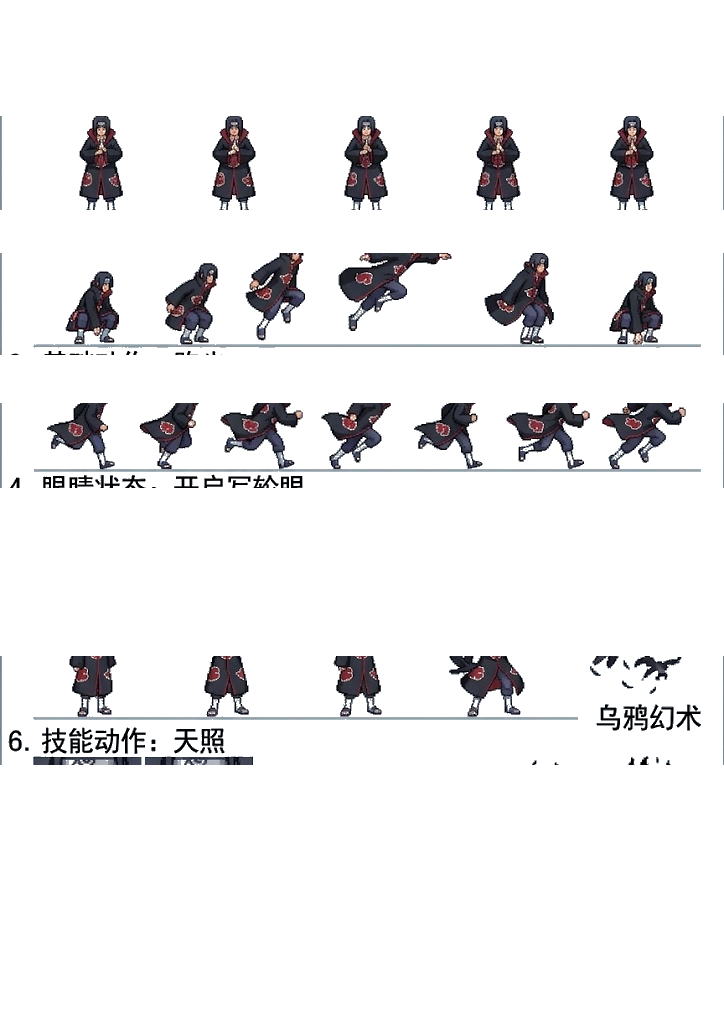
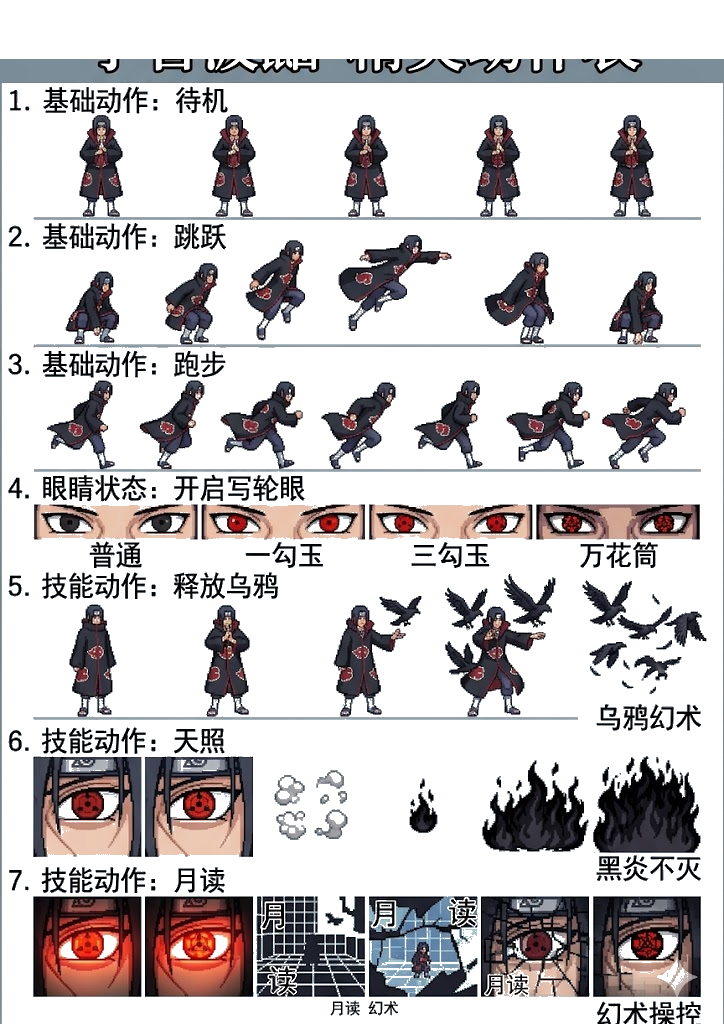
fix(itachi): 恢复被误抠的头 + 收窄每帧防相邻角色露出
- 重做 宇智波鼬动作.png：只清顶部大标题（0-58），不再清各行标签
  → 之前激进抠图把 idle 头顶（y=95-115）一起吃了，头就没了
- 新 ITA_FR 卡在每行精灵实际 y 范围内（idle 115-215 / jump 265-360 /
  run 400-475 / crow 640-740），避开上下标签
- 新增 frameW < stride：idle/jump/run 每帧 100px 落在 120 列里，crow
  120px 落在 144 列里。边缘 ≥10px 空隙，一帧只显一个角色
- drawItachi 用 frameW 作为 sw
- 同步重新导 4 个 gif（尺寸: idle/jump 100×95+、run 100×75、crow 120×100）

diff --git a/index.html b/index.html
@@ -1545,14 +1545,14 @@ let zjyIdleSheetReady = false;
 const ZJY_IDLE_FRAME = 128;    // 每帧 128×128
 const ZJY_IDLE_COUNT = 10;
 const ZJY_IDLE_FPS = 10;       // 播放速率
-// 贴图帧切片（像素坐标，需根据实际图做视觉微调）
-// 原图 724 × 1024，7 行布局：1 待机 / 2 跳跃 / 3 跑步 / 4 眼睛 / 5 乌鸦 / 6 天照 / 7 月读
+// 贴图帧切片（像素坐标）
+// 原图 724 × 1024。y/h 严格卡在精灵行内避开标签，frameW < stride 留空隙
+// 防止露出下一帧的角色。
 const ITA_FR = {
-  idle: { y:  95, h: 115, firstX: 15, stride: 118, count: 6 },
-  jump: { y: 230, h: 130, firstX: 15, stride: 118, count: 6 },
-  run:  { y: 370, h: 115, firstX: 15, stride: 118, count: 6 },
-  // 第 5 行 释放乌鸦（用于平A + 技能预备姿态）
-  crow: { y: 590, h: 135, firstX: 10, stride: 142, count: 5 },
+  idle: { y: 115, h: 100, firstX: 10, stride: 120, frameW: 100, count: 6 },
+  jump: { y: 265, h:  95, firstX: 10, stride: 120, frameW: 100, count: 6 },
+  run:  { y: 400, h:  75, firstX: 10, stride: 120, frameW: 100, count: 6 },
+  crow: { y: 640, h: 100, firstX: 10, stride: 144, frameW: 120, count: 5 },
 };
 
 const keys = {};
@@ -2593,7 +2593,7 @@ function drawItachi(state, attacking) {
   }
   const idx = Math.max(0, Math.min(fr.count - 1, Math.floor(progress * fr.count) % fr.count));
   const sx = fr.firstX + idx * fr.stride;
-  const sy = fr.y, sw = fr.stride - 6, sh = fr.h;
+  const sy = fr.y, sw = fr.frameW || (fr.stride - 6), sh = fr.h;
   // 目标高度
   const drawH = 180;
   const drawW = drawH * (sw / sh);
